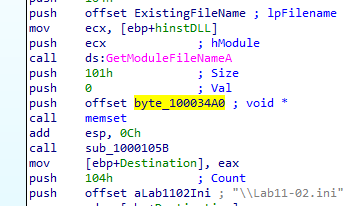
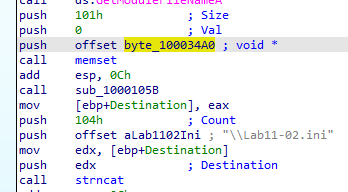
Added lab 11

Changed region(s): [[0.0287, 0.0, 1.0, 1.0], [0.6609, 0.9688, 0.6897, 1.0], [0.546, 0.3438, 0.5747, 0.375]]

diff --git a/searchindex.js b/searchindex.js
@@ -1,1 +1,1 @@
-Search.setIndex({"docnames": ["index", "lab1/lab1", "lab10/lab10", "lab11/lab11", "lab3/lab3", "lab5/lab5", "lab6/lab6", "lab7/lab7", "lab9/lab9"], "filenames": ["index.rst", "lab1\\lab1.rst", "lab10\\lab10.rst", "lab11\\lab11.rst", "lab3\\lab3.rst", "lab5\\lab5.rst", "lab6\\lab6.rst", "lab7\\lab7.rst", "lab9\\lab9.rst"], "titles": ["Welcome to abdelrahmn walkthrough!", "Practical Malware Analysis - Lab 1", "Practical Malware Analysis - Lab 10", "Practical Malware Analysis - Lab 11", "Practical Malware Analysis - Lab 3", "Practical Malware Analysis - Lab 5", "Practical Malware Analysis - Lab 6", "Practical Malware Analysis - Lab 7", "Practical Malware Analysis - Lab 9"], "terms": {"index": 0, "modul": [0, 1, 3, 5], "search": [0, 1, 3, 4, 5, 7, 8], "page": [0, 5], "practic": 0, "malwar": 0, "analysi": 0, "lab": 0, "1": 0, "thi": [1, 2, 3, 4, 5, 6, 7, 8], "us": [1, 2, 3, 4, 5, 6, 7, 8], "file": [1, 2, 3, 4, 5, 6, 7, 8], "lab01": 1, "01": [1, 2, 3, 4, 5, 6, 7, 8], "ex": [1, 2, 3, 4, 5, 6, 7, 8], "dll": [1, 3, 4, 5, 7, 8], "tool": [1, 4], "techniqu": [1, 3, 8], "describ": 1, "chapter": [1, 4, 6, 8], "gain": 1, "inform": [1, 4, 5], "about": [1, 3, 5], "answer": [1, 8], "question": [1, 5, 6, 8], "below": 1, "q1": [1, 2, 3, 4, 5, 6, 7, 8], "upload": 1, "http": [1, 5, 7, 8], "www": [1, 7, 8], "virustot": 1, "com": [1, 5, 6, 7, 8], "view": [1, 5, 8], "report": 1, "doe": [1, 2, 3, 5, 6, 7, 8], "either": 1, "match": [1, 5, 8], "ani": [1, 2, 3, 4, 5, 6, 7, 8], "exist": 1, "antiviru": 1, "signatur": [1, 4, 7, 8], "45": 1, "vendor": 1, "flag": [1, 5], "suspici": [1, 3], "55": 1, "imag": [], "1ex": [], "png": [], "2": [0, 5], "3": [0, 5], "4": [0, 5, 8], "q2": [1, 2, 3, 4, 5, 6, 7, 8], "when": [1, 2, 3, 4, 5, 6, 7, 8], "were": [1, 7], "compil": 1, "q3": [1, 2, 3, 4, 5, 6, 7, 8], "ar": [1, 2, 3, 4, 5, 6, 7, 8], "indic": [1, 4, 6, 7, 8], "i": [1, 2, 3, 4, 5, 6, 7, 8], "pack": [1, 4], "obfusc": [1, 8], "If": [1, 2, 4, 5, 6, 7], "so": [1, 2, 3, 4, 5, 6, 7, 8], "what": [1, 2, 3, 4, 5, 6, 7, 8], "q4": [1, 3, 4, 5, 6, 7, 8], "do": [1, 2, 3, 4, 5, 6, 7, 8], "import": [1, 3, 4, 5, 7, 8], "hint": [1, 5], "which": [1, 2, 3, 4, 5, 6, 7, 8], "thei": [1, 2, 4, 5], "q5": [1, 3, 4, 5, 6, 7, 8], "q6": [1, 3, 4, 5, 6, 7, 8], "network": [1, 4, 5, 6, 7, 8], "base": [1, 4, 5, 6, 7, 8], "could": [1, 4, 5, 7, 8], "find": [1, 3, 4, 5, 7, 8], "infect": [1, 3], "machin": [1, 2, 7], "q7": [1, 3, 5, 8], "would": [1, 4], "you": [1, 2, 3, 4, 5, 6, 7, 8], "guess": 1, "purpos": [1, 4, 6, 7, 8], "analyz": [1, 3, 4, 5, 6, 7, 8], "02": [1, 2, 3, 4, 6, 7, 8], "definit": 1, "unpack": 1, "possibl": 1, "program": [1, 2, 4, 5, 6, 7, 8], "": [1, 3, 4, 5, 6, 7, 8], "function": [1, 2, 3, 5, 6, 7, 8], "tell": 1, "host": [1, 2, 4, 6, 7, 8], "identifi": [1, 4, 5, 8], "03": [1, 2, 3, 4, 6, 7, 8], "04": [1, 4, 6], "wa": [1, 2, 3, 5, 8], "ha": [1, 5, 6, 8], "one": [1, 3, 5, 6, 7, 8], "resourc": [1, 3], "section": 1, "hacker": 1, "examin": [1, 2, 3], "extract": [1, 3], "can": [1, 2, 3, 4, 5, 6, 7, 8], "learn": [1, 5], "from": [1, 2, 3, 4, 5, 6, 8], "sun": 1, "dec": 1, "19": 1, "18": 1, "16": 1, "2010": 1, "38": 1, "peid": 1, "moreov": 1, "both": [1, 2, 3, 7, 8], "decent": 1, "number": [1, 5], "psstudio": 1, "check": [1, 2, 3, 5, 6, 7, 8], "show": [1, 8], "creat": [1, 2, 3, 4, 5, 6, 7, 8], "ws2_32": 1, "socket": [1, 5], "mean": [1, 2, 3], "we": [1, 2, 3, 4, 5, 6, 7, 8], "need": [1, 2, 3, 5, 7, 8], "investig": 1, "traffic": [1, 4, 5], "also": [1, 3, 5], "createprocess": 1, "kernel32": [1, 4, 7, 8], "new": [1, 6], "process": [1, 3, 4, 5, 7, 8], "spawn": 1, "ye": [1, 6], "findfirstfil": 1, "findnextfil": 1, "u": [1, 5], "somefil": 1, "modifi": 1, "run": [1, 2, 3, 4, 5, 6, 7, 8], "string": [1, 4, 5, 6, 7, 8], "give": [1, 5], "some": [1, 3, 4, 5, 7, 8], "useful": 1, "like": [1, 3, 4, 5, 6, 7, 8], "ip": [1, 7], "127": [1, 7], "26": [1, 7], "152": [1, 7], "13": [1, 5, 7], "watch": [1, 5], "come": 1, "kerne132": [1, 7], "l": [1, 8], "should": [1, 5, 6, 7], "notic": [1, 3, 4, 5, 7, 8], "sleep": [1, 5, 6], "exec": 1, "mai": [1, 5, 7, 8], "its": [1, 3, 5, 7, 8], "an": [1, 2, 3, 5, 8], "agent": [1, 6, 7], "connect": [1, 4, 6, 7], "c": [1, 2, 5, 6, 7, 8], "server": 1, "trojan": 1, "against": 1, "upx": 1, "bash": [], "d": [1, 6], "code": [3, 5, 6, 8], "block": [], "createservic": 1, "startservic": [1, 7], "start": [1, 2, 3, 4, 5, 6, 7, 8], "servic": [1, 2, 7, 8], "internetopenurl": 1, "internetopen": 1, "open": [1, 2, 3, 5, 7, 8], "specifi": [1, 3, 5, 8], "complet": [1, 3], "ftp": 1, "url": [1, 6, 7], "getmodulefilenam": 1, "obtain": [1, 7], "fulli": 1, "qualifi": 1, "name": [1, 2, 3, 4, 5, 7, 8], "given": 1, "handl": [1, 3, 7], "see": [1, 2, 3, 5, 6, 7, 8], "internet": [1, 6, 7], "explor": [1, 4, 6, 7], "malwareanalysisbook": [1, 7], "8": [1, 7], "0": [1, 5], "64": 1, "av": 1, "fsg": 1, "dulek": [], "look": [1, 3, 5, 8], "manual": 1, "onli": [1, 4, 5, 6, 7], "loadlibrari": 1, "getprocaddress": [1, 3], "t": [1, 3, 4, 5, 7, 8], "63": 1, "No": 1, "malform": 1, "virtuals": 1, "close": 1, "rawsiz": 1, "sat": 1, "aug": 1, "31": [1, 8], "00": 1, "59": 1, "2019": 1, "It": [1, 3, 4, 5, 6, 7, 8], "lookup": 1, "privileg": 1, "adjust": 1, "token": 1, "control": [1, 7], "most": [1, 3, 4, 5, 6], "wupdmgrd": 1, "download": 1, "thepracticalmalwareanalysi": 1, "updat": 1, "There": [1, 5, 6], "binari": [1, 3, 8], "rsrc": [1, 3], "urldownloadtofil": 1, "first": [3, 4, 5, 6, 7, 8], "my": 4, "setup": [4, 7], "two": [4, 6, 7], "vm": [4, 5], "win7": 4, "linux": 4, "togeth": 4, "vmnet": [], "inetsim": 4, "On": 4, "procmon": [2, 4, 8], "set": [2, 3, 4, 5, 6, 7, 8], "filter": [2, 4], "execut": [2, 3, 4, 5, 6, 7, 8], "clear": [3, 4], "out": [3, 4, 5, 6, 8], "all": [3, 4, 5, 7, 8], "event": 4, "just": [3, 4], "befor": [4, 5, 6], "gather": [4, 5], "snapshot": [3, 4, 5, 7], "registri": [2, 3, 4, 6], "regshot": 4, "up": [4, 5], "log": [3, 4], "wireshark": [3, 4], "apatedn": 4, "point": 4, "found": [2, 3, 4, 5, 6, 7, 8], "lab03": 4, "basic": [3, 4, 8], "dynam": [3, 4, 7, 8], "how": [2, 3, 4, 5, 6, 7, 8], "get": [3, 4, 5, 7, 8], "instal": [3, 4, 5, 7, 8], "itself": [4, 8], "after": [2, 3, 4, 5, 6, 7, 8], "under": [3, 4, 7, 8], "order": [2, 3, 4, 7], "glean": 4, "while": [4, 8], "monitor": 4, "safe": 4, "environ": [3, 4], "live": 4, "memori": [2, 3, 4, 7, 8], "modif": 4, "further": [4, 5], "9": [0, 4, 5], "happen": [3, 4, 5, 8], "caus": [4, 7], "roadblock": 4, "other": [4, 5, 6, 7], "wai": [3, 4, 7], "pebear": 4, "exitprocess": 4, "dl": 4, "command": [4, 6, 7, 8], "mani": [3, 4, 5, 8], "domain": [4, 8], "intern": 4, "driver": [2, 4], "By": [4, 5, 7, 8], "utilt": 4, "rundll32": [3, 4], "sc": [4, 7], "parent": 4, "pid": 4, "delet": [4, 6, 8], "processcr": 4, "call": [2, 3, 4, 5, 6, 7, 8], "cmd": [4, 5, 8], "requir": [4, 8], "certain": [4, 7], "condit": [4, 6, 8], "line": [4, 5, 8], "argument": [2, 4, 5, 6, 8], "don": 4, "know": [2, 4, 7], "stage": 4, "util": [5, 7, 8], "ida": [2, 3, 5, 8], "lab05": 5, "pro": [5, 8], "The": [2, 5, 6, 8], "goal": [5, 6], "hand": 5, "experi": 5, "ve": [5, 6, 7], "alreadi": [2, 5], "work": [2, 3, 5, 6], "choos": 5, "ignor": 5, "focu": [5, 7], "revers": [5, 7], "engin": 5, "5": [0, 3, 6], "address": [3, 5, 6, 7, 8], "dllmain": [5, 7], "window": [2, 3, 5, 6, 7], "brows": 5, "gethostbynam": 5, "where": [2, 3, 5, 8], "locat": [3, 5, 6, 8], "focus": 5, "0x10001757": 5, "figur": 5, "dn": 5, "request": [5, 8], "made": [5, 6], "local": [5, 7], "variabl": 5, "recogn": [5, 6], "subroutin": [5, 6, 7, 8], "0x10001656": 5, "6": [0, 5, 8], "paramet": [3, 5, 6, 8], "7": [0, 3], "disassembli": 5, "area": 5, "refer": [3, 5], "In": [5, 6, 7, 8], "same": [2, 3, 5, 6, 7, 8], "0x100101c8": 5, "dword_1008e5c4": 5, "global": 5, "help": [3, 5, 6], "decid": 5, "path": [5, 8], "take": [3, 5, 6, 8], "cross": [3, 5], "10": 0, "A": [5, 6, 7], "few": 5, "hundr": 5, "0x1000ff58": 5, "seri": 5, "comparison": 5, "memcmp": [3, 5], "compar": [3, 5, 6, 8], "robotwork": 5, "success": [2, 5, 6, 7], "return": [2, 3, 5, 6, 8], "11": 0, "export": [3, 5], "pslist": 5, "12": [], "graph": 5, "mode": 5, "sub_10004e79": 5, "api": 5, "enter": 5, "alon": 5, "renam": [5, 8], "directli": 5, "depth": 5, "14": [], "At": [5, 7], "0x10001358": 5, "contain": [3, 5, 6, 7], "millisecond": 5, "backward": 5, "through": [5, 6, 7], "long": [5, 6], "15": [], "0x10001701": 5, "three": [3, 5, 8], "q8": [3, 5, 8], "q9": [3, 5], "q10": 5, "q11": 5, "q12": 5, "q13": 5, "q14": 5, "q15": 5, "load": [3, 5, 8], "direct": [2, 5], "1000d02e": 5, "referenc": 5, "100163cc": 5, "xref": 5, "press": 5, "x": 5, "idata": 5, "time": [3, 5, 6, 7], "uniqu": 5, "method": [5, 6, 7], "g": 5, "jump": [3, 5, 6], "scroll": 5, "push": [5, 6], "eax": [2, 3, 5, 6, 8], "data": [3, 5, 7, 8], "ad": [5, 6, 7], "0x0d": 5, "decim": 5, "go": [2, 3, 5, 6, 7, 8], "click": 5, "twice": 5, "undefin": 5, "place": [2, 3, 5], "redefin": 5, "offset": [3, 5, 7], "pic": 5, "praticalmalwareanalysi": 5, "24": 5, "pass": [3, 5, 6, 7, 8], "posit": 5, "valu": [3, 5, 8], "respect": 5, "ebp": 5, "neg": 5, "lpthreadparamet": 5, "100101d0": 5, "hi": 5, "master": 5, "remot": [5, 7], "shell": 5, "sound": 5, "session": 5, "1001009d": 5, "doubl": 5, "mov": [5, 8], "begin": [5, 7], "initi": [5, 8], "stack": [5, 8], "alloc": [3, 5], "space": [2, 3, 5], "Then": [2, 5, 6, 7], "structur": [3, 5], "versioninform": 5, "pointer": 5, "getversionexa": 5, "zero": [2, 3, 5], "dwplatformid": 5, "equal": [5, 8], "true": 5, "fals": 5, "al": [5, 6], "regist": [5, 7, 8], "result": [2, 5], "overal": [5, 6], "o": [5, 6], "win32nt": 5, "act": 5, "text": 5, "test": [3, 5, 8], "jnz": [5, 6], "next": [5, 6], "instruct": [5, 6, 8], "flow": [3, 5, 8], "sub_100052a2": 5, "routin": [5, 6, 8], "type": [2, 3, 5, 6], "buffer": 5, "send": [3, 5, 7], "over": [5, 8], "try": [5, 6], "registeri": 5, "softwar": [5, 6, 7], "microsoft": [5, 6], "currentvers": [5, 6], "regopenkeyexa": 5, "jz": [5, 6], "loc_10005309": 5, "10005322": 5, "queri": [5, 8], "worktim": 5, "sent": [3, 5], "vaiabl": 5, "dword_1008e5bc": 5, "sub_100036c3": 5, "cmp": [5, 6], "majorvers": 5, "jb": 5, "short": 5, "loc_100036fa": 5, "version": [5, 7], "less": 5, "than": [5, 7], "cf": 5, "goe": 5, "piec": [5, 6, 8], "str": 5, "isnot": 5, "null": 5, "empti": 5, "strlen": 5, "zf": 5, "taken": [5, 7], "non": [2, 5], "1000664c": 5, "10006518": 5, "createtoolhelp32snapshot": 5, "well": [3, 5], "heap": [3, 5], "thread": [3, 5, 7], "processentry32": [3, 5], "put": [2, 3, 5, 6, 8], "loop": [5, 6, 7, 8], "pe": 5, "szexefil": 5, "those": [5, 6], "branch": [5, 8], "seem": [3, 5], "without": [5, 7], "langaug": 5, "getsystemlanguageid": 5, "sprintf": 5, "sub_100038e": 5, "send_languageid": 5, "For": [5, 7], "win": [3, 5], "lot": 5, "10019020": 5, "cti": 5, "30": 5, "move": [5, 8], "add": 5, "convert": [5, 8], "int": 5, "multipli": 5, "1000": 5, "second": [3, 5, 6, 8], "protocol": 5, "af": 5, "q16": 5, "msdn": 5, "symbol": 5, "constant": 5, "make": [2, 3, 5, 7, 8], "more": [5, 6, 7], "meaning": 5, "appli": 5, "chang": [2, 3, 5, 7], "q17": 5, "usag": 5, "opcod": [3, 5], "0xed": 5, "magic": 5, "vmxh": 5, "perform": [5, 6], "vmware": 5, "detect": [5, 7], "evid": 5, "q18": 5, "your": [3, 5, 7], "cursor": 5, "0x1001d988": 5, "q19": 5, "have": [2, 5], "python": 5, "plug": 5, "includ": [2, 5, 8], "commerci": 5, "py": 5, "script": 5, "provid": [5, 8], "book": 5, "sure": [3, 5], "q20": 5, "With": 5, "turn": 5, "singl": [5, 6], "ascii": [5, 6, 8], "q21": 5, "editor": 5, "_target": 5, "en": 5, "win32": 5, "winsock2": 5, "nf": 5, "right": 5, "alt": 5, "b": [5, 6], "byte": [3, 5, 6], "occur": 5, "sub_10006196": 5, "hex": [5, 8], "cancel": 5, "charact": 5, "outdat": 5, "xor": [5, 8], "0x55": 5, "default": [5, 6], "format": [5, 6], "current": [5, 6], "select": 5, "screen": 5, "0x50": 5, "understand": 6, "construct": 6, "each": 6, "guid": 6, "discov": [3, 6], "build": 6, "previou": [6, 7], "thu": 6, "complic": 6, "four": 6, "onc": [2, 6, 7], "finish": [6, 7], "abl": 6, "easili": 6, "individu": 6, "encount": 6, "them": [3, 6], "lab06": 6, "major": 6, "main": [3, 6, 7, 8], "print": [6, 8], "state": 6, "output": [6, 8], "0x40105f": 6, "oper": 6, "0x40117f": 6, "ll": [6, 7], "differ": [6, 8], "between": [3, 6], "been": 6, "pars": 6, "html": [6, 7], "assum": [3, 6], "abov": [], "stream": 6, "fail": [2, 6], "printf": 6, "here": [2, 3, 6, 7, 8], "tri": 6, "openurl": 6, "practicalmalwareanalysi": [6, 8], "v7": 6, "depend": 6, "continu": [3, 6, 7], "internetreadfil": 6, "read": 6, "200": 6, "readfil": 6, "bye": 6, "0x3c": 6, "receiv": 6, "combin": [6, 7], "bunch": 6, "switch": 6, "case": 6, "user": [2, 3, 6, 7], "As": [6, 8], "summari": 6, "pma": 6, "cc": [6, 8], "htm": 6, "401130": 6, "lpexistingfil": 6, "char": 6, "argv": [6, 8], "arrai": 6, "lower": 6, "401040": [6, 7], "input": [3, 6], "directori": [2, 3, 6, 7], "temp": 6, "copi": [3, 6, 7], "kei": [6, 8], "persist": [3, 6, 7], "startup": [6, 7], "e": [3, 6, 8], "100": 6, "error": 6, "multipl": [3, 6], "thing": 6, "retriev": 6, "site": [6, 7], "1440": 6, "counter": 6, "var_c": 6, "parser": 6, "throughtout": 6, "dai": 6, "interv": 6, "lab07": 7, "ensur": 7, "achiev": [3, 7], "comput": [2, 7], "restart": 7, "why": [3, 7], "mutex": 7, "good": 7, "malici": [7, 8], "prior": 7, "note": 7, "becaus": [2, 7], "might": 7, "victim": [2, 7], "visibl": 7, "loopback": 7, "real": 7, "localhost": 7, "protect": [3, 7], "warn": 7, "consider": 7, "damag": 7, "difficult": 7, "remov": 7, "virtual": 7, "bit": 7, "challeng": 7, "ones": 7, "static": [3, 7, 8], "big": 7, "pictur": 7, "avoid": [7, 8], "bog": 7, "down": 7, "detail": 7, "Into": 7, "startservicectrldispatchera": 7, "manag": [7, 8], "instanc": 7, "startyp": 7, "autostart": 7, "pc": 7, "To": 7, "hardcod": 7, "must": [2, 3, 7], "consist": 7, "aren": 7, "commun": 7, "qc": 7, "malservic": 7, "hgl345": 7, "waitforsingleobject": 7, "waitabl": 7, "timer": 7, "wait": 7, "2100": 7, "834h": 7, "4010de": 7, "reach": [7, 8], "year": 7, "20": 7, "zombi": 7, "botnet": 7, "infinit": 7, "never": 7, "object": 7, "oleiniti": 7, "cocreateinst": 7, "our": [7, 8], "hkey_local_machin": 7, "class": 7, "clsid": 7, "2df01": 7, "mayb": 7, "adwar": 7, "now": [3, 7, 8], "eplor": 7, "uninti": 7, "normal": [3, 7], "ioc": 7, "system32": [2, 7, 8], "map": 7, "reflect": 7, "disk": [3, 7], "And": 7, "132": 7, "l32": 7, "4011e0": 7, "iter": 7, "string2": 7, "replac": [3, 7], "dword_403010": 7, "qmemcpi": 7, "ping": 7, "pong": 7, "reciev": 7, "overwrit": [3, 7], "instead": 7, "sadfhuhf": 7, "inject": 7, "logic": [2, 7], "Or": 7, "easier": [7, 8], "lab09": 8, "ollydbg": 8, "follow": 8, "option": 8, "password": 8, "perman": 8, "patch": 8, "doesn": [3, 8], "special": 8, "action": 8, "via": 8, "sampl": 8, "payload": 8, "0x00401133": 8, "being": [3, 8], "0x00401089": 8, "encod": 8, "signific": [3, 8], "createprocessa": 8, "0x0040106e": 8, "dll1": 8, "dll2": 8, "dll3": 8, "built": 8, "therefor": 8, "versu": 8, "appear": 8, "comfort": 8, "correct": 8, "within": 8, "debug": [3, 8], "assign": 8, "writefil": 8, "filenam": [3, 8], "write": [3, 8], "job": 8, "netschedulejobadd": 8, "mysteri": 8, "sub_402410": 8, "del": 8, "respons": 8, "last": 8, "argc": 8, "abcd": 8, "passkei": 8, "n": 8, "r": 8, "involv": 8, "around": 8, "re": 8, "opposit": 8, "suppli": 8, "xp": 8, "subkei": 8, "arugu": 8, "qw": 8, "402af0": 8, "step": 8, "till": 8, "sinc": 8, "skip": 8, "selfdelet": 8, "arriv": 8, "prepar": 8, "servicemanag": 8, "dir": 8, "syswow": 8, "systemroot": 8, "windowssystem32": [2, 8], "hklmsoftwaremicrosoft": 8, "noth": 8, "foreground": 8, "someth": 8, "ocl": 8, "termin": 8, "bp": 8, "401133": 8, "breakpoint": [2, 8], "gonna": 8, "decod": 8, "46": 8, "letter": 8, "dump": 8, "anywher": 2, "properli": [2, 3], "origin": 2, "lab10": 2, "sy": 2, "controlservic": 2, "windbg": 2, "kernel": 2, "compon": 2, "stop": 2, "regsetvalu": 2, "0x01": 2, "service_kernel_driv": 2, "0x00000001": 2, "couldnt": 2, "dwcontrol": 2, "service_control_stop": 2, "still": 2, "hit": 2, "break": 2, "lab11": 3, "drop": 3, "rep": 3, "stosd": 3, "ecx": 3, "43h": 3, "tgad": 3, "pestudio": 3, "loadresourc": 3, "40100": 3, "gina": 3, "intercept": 3, "regset": 3, "ginadl": 3, "winlogon": 3, "steal": 3, "credenti": 3, "exeinfo": 3, "floss": 3, "oringin": 3, "stolen": 3, "msutil": 3, "ini": 3, "attempt": 3, "permiss": 3, "resid": 3, "rootkit": 3, "emploi": 3, "hook": 3, "attack": 3, "captur": 3, "activ": 3, "dure": 3, "interest": 3, "lead": 3, "system": 3, "store": 3, "collect": 3, "similar": 3, "caller": 3, "appleinit": 3, "stood": 3, "modulefilenam": 3, "processid": 3, "plu": 3, "snapshottool": 3, "100012fe": 3, "wsock32": 3, "got": 3, "10001203": 3, "virtualprotect": 3, "inlin": 3, "insid": 3, "calcul": 3, "distanc": 3, "arg_4": 3, "sendaddr": 3, "0xff": 3, "lpaddress": 3, "rel": 3, "rest": 3, "0xe9": 3, "jmp": 3, "v6": 3, "trace": 3, "back": 3, "1000113d": 3, "substr": 3, "rept": 3, "els": 3, "recepi": 3, "email": 3, "100034a0": 3}, "objects": {}, "objtypes": {}, "objnames": {}, "titleterms": {"welcom": 0, "abdelrahmn": 0, "walkthrough": 0, "": [], "document": [], "indic": 0, "tabl": 0, "practic": [1, 2, 3, 4, 5, 6, 7, 8], "malwar": [1, 2, 3, 4, 5, 6, 7, 8], "analysi": [1, 2, 3, 4, 5, 6, 7, 8], "lab": [1, 2, 3, 4, 5, 6, 7, 8], "1": [1, 2, 3, 4, 5, 6, 7, 8], "2": [1, 2, 3, 4, 6, 7, 8], "3": [1, 2, 3, 4, 6, 7, 8], "4": [1, 4, 6], "5": 5, "6": 6, "7": 7, "9": 8, "10": 2, "11": 3}, "envversion": {"sphinx.domains.c": 2, "sphinx.domains.changeset": 1, "sphinx.domains.citation": 1, "sphinx.domains.cpp": 8, "sphinx.domains.index": 1, "sphinx.domains.javascript": 2, "sphinx.domains.math": 2, "sphinx.domains.python": 3, "sphinx.domains.rst": 2, "sphinx.domains.std": 2, "sphinx": 57}, "alltitles": {"Practical Malware Analysis - Lab 1": [[1, "practical-malware-analysis-lab-1"]], "Lab 1-1": [[1, "lab-1-1"]], "Lab 1-2": [[1, "lab-1-2"]], "Lab 1-3": [[1, "lab-1-3"]], "Lab 1-4": [[1, "lab-1-4"]], "Practical Malware Analysis - Lab 3": [[4, "practical-malware-analysis-lab-3"]], "Lab 3-1": [[4, "lab-3-1"]], "Lab 3-2": [[4, "lab-3-2"]], "Lab 3-3": [[4, "lab-3-3"]], "Lab 3-4": [[4, "lab-3-4"]], "Practical Malware Analysis - Lab 5": [[5, "practical-malware-analysis-lab-5"]], "Lab 5-1": [[5, "lab-5-1"]], "Practical Malware Analysis - Lab 6": [[6, "practical-malware-analysis-lab-6"]], "Lab 6-1": [[6, "lab-6-1"]], "Lab 6-2": [[6, "lab-6-2"]], "Lab 6-3": [[6, "lab-6-3"]], "Lab 6-4": [[6, "lab-6-4"]], "Practical Malware Analysis - Lab 7": [[7, "practical-malware-analysis-lab-7"]], "Lab 7-1": [[7, "lab-7-1"]], "Lab 7-2": [[7, "lab-7-2"]], "Lab 7-3": [[7, "lab-7-3"]], "Practical Malware Analysis - Lab 9": [[8, "practical-malware-analysis-lab-9"]], "Lab 9-1": [[8, "lab-9-1"]], "Lab 9-2": [[8, "lab-9-2"]], "Lab 9-3": [[8, "lab-9-3"]], "Welcome to abdelrahmn walkthrough!": [[0, "welcome-to-abdelrahmn-walkthrough"]], "Indices and tables": [[0, "indices-and-tables"]], "Practical Malware Analysis - Lab 10": [[2, "practical-malware-analysis-lab-10"]], "Lab 10-1": [[2, "lab-10-1"]], "Lab 10-2": [[2, "lab-10-2"]], "Lab 10-3": [[2, "lab-10-3"]], "Practical Malware Analysis - Lab 11": [[3, "practical-malware-analysis-lab-11"]], "Lab 11-1": [[3, "lab-11-1"]], "Lab 11-2": [[3, "lab-11-2"]], "Lab 11-3": [[3, "lab-11-3"]]}, "indexentries": {}})
+Search.setIndex({"docnames": ["index", "lab1/lab1", "lab10/lab10", "lab11/lab11", "lab3/lab3", "lab5/lab5", "lab6/lab6", "lab7/lab7", "lab9/lab9"], "filenames": ["index.rst", "lab1\\lab1.rst", "lab10\\lab10.rst", "lab11\\lab11.rst", "lab3\\lab3.rst", "lab5\\lab5.rst", "lab6\\lab6.rst", "lab7\\lab7.rst", "lab9\\lab9.rst"], "titles": ["Welcome to abdelrahmn walkthrough!", "Practical Malware Analysis - Lab 1", "Practical Malware Analysis - Lab 10", "Practical Malware Analysis - Lab 11", "Practical Malware Analysis - Lab 3", "Practical Malware Analysis - Lab 5", "Practical Malware Analysis - Lab 6", "Practical Malware Analysis - Lab 7", "Practical Malware Analysis - Lab 9"], "terms": {"index": 0, "modul": [0, 1, 3, 5], "search": [0, 1, 3, 4, 5, 7, 8], "page": [0, 5], "practic": 0, "malwar": 0, "analysi": 0, "lab": 0, "1": 0, "thi": [1, 2, 3, 4, 5, 6, 7, 8], "us": [1, 2, 3, 4, 5, 6, 7, 8], "file": [1, 2, 3, 4, 5, 6, 7, 8], "lab01": 1, "01": [1, 2, 3, 4, 5, 6, 7, 8], "ex": [1, 2, 3, 4, 5, 6, 7, 8], "dll": [1, 3, 4, 5, 7, 8], "tool": [1, 4], "techniqu": [1, 3, 8], "describ": 1, "chapter": [1, 4, 6, 8], "gain": 1, "inform": [1, 4, 5], "about": [1, 3, 5], "answer": [1, 3, 8], "question": [1, 5, 6, 8], "below": 1, "q1": [1, 2, 3, 4, 5, 6, 7, 8], "upload": 1, "http": [1, 3, 5, 7, 8], "www": [1, 3, 7, 8], "virustot": 1, "com": [1, 5, 6, 7, 8], "view": [1, 5, 8], "report": 1, "doe": [1, 2, 3, 5, 6, 7, 8], "either": 1, "match": [1, 5, 8], "ani": [1, 2, 3, 4, 5, 6, 7, 8], "exist": 1, "antiviru": 1, "signatur": [1, 4, 7, 8], "45": 1, "vendor": 1, "flag": [1, 5], "suspici": [1, 3], "55": 1, "imag": [], "1ex": [], "png": [], "2": [0, 5], "3": [0, 5], "4": [0, 5, 8], "q2": [1, 2, 3, 4, 5, 6, 7, 8], "when": [1, 2, 3, 4, 5, 6, 7, 8], "were": [1, 7], "compil": 1, "q3": [1, 2, 3, 4, 5, 6, 7, 8], "ar": [1, 2, 3, 4, 5, 6, 7, 8], "indic": [1, 4, 6, 7, 8], "i": [1, 2, 3, 4, 5, 6, 7, 8], "pack": [1, 4], "obfusc": [1, 8], "If": [1, 2, 4, 5, 6, 7], "so": [1, 2, 3, 4, 5, 6, 7, 8], "what": [1, 2, 3, 4, 5, 6, 7, 8], "q4": [1, 3, 4, 5, 6, 7, 8], "do": [1, 2, 3, 4, 5, 6, 7, 8], "import": [1, 3, 4, 5, 7, 8], "hint": [1, 5], "which": [1, 2, 3, 4, 5, 6, 7, 8], "thei": [1, 2, 4, 5], "q5": [1, 3, 4, 5, 6, 7, 8], "q6": [1, 3, 4, 5, 6, 7, 8], "network": [1, 4, 5, 6, 7, 8], "base": [1, 4, 5, 6, 7, 8], "could": [1, 4, 5, 7, 8], "find": [1, 3, 4, 5, 7, 8], "infect": [1, 3], "machin": [1, 2, 7], "q7": [1, 3, 5, 8], "would": [1, 4], "you": [1, 2, 3, 4, 5, 6, 7, 8], "guess": 1, "purpos": [1, 4, 6, 7, 8], "analyz": [1, 3, 4, 5, 6, 7, 8], "02": [1, 2, 3, 4, 6, 7, 8], "definit": 1, "unpack": 1, "possibl": 1, "program": [1, 2, 4, 5, 6, 7, 8], "": [1, 3, 4, 5, 6, 7, 8], "function": [1, 2, 3, 5, 6, 7, 8], "tell": 1, "host": [1, 2, 4, 6, 7, 8], "identifi": [1, 4, 5, 8], "03": [1, 2, 3, 4, 6, 7, 8], "04": [1, 4, 6], "wa": [1, 2, 3, 5, 8], "ha": [1, 5, 6, 8], "one": [1, 3, 5, 6, 7, 8], "resourc": [1, 3], "section": 1, "hacker": 1, "examin": [1, 2, 3], "extract": [1, 3], "can": [1, 2, 3, 4, 5, 6, 7, 8], "learn": [1, 5], "from": [1, 2, 3, 4, 5, 6, 8], "sun": 1, "dec": 1, "19": 1, "18": 1, "16": 1, "2010": 1, "38": 1, "peid": 1, "moreov": 1, "both": [1, 2, 3, 7, 8], "decent": 1, "number": [1, 5], "psstudio": 1, "check": [1, 2, 3, 5, 6, 7, 8], "show": [1, 8], "creat": [1, 2, 3, 4, 5, 6, 7, 8], "ws2_32": 1, "socket": [1, 5], "mean": [1, 2, 3], "we": [1, 2, 3, 4, 5, 6, 7, 8], "need": [1, 2, 3, 5, 7, 8], "investig": 1, "traffic": [1, 4, 5], "also": [1, 3, 5], "createprocess": 1, "kernel32": [1, 4, 7, 8], "new": [1, 6], "process": [1, 3, 4, 5, 7, 8], "spawn": 1, "ye": [1, 6], "findfirstfil": 1, "findnextfil": 1, "u": [1, 5], "somefil": 1, "modifi": 1, "run": [1, 2, 3, 4, 5, 6, 7, 8], "string": [1, 3, 4, 5, 6, 7, 8], "give": [1, 5], "some": [1, 3, 4, 5, 7, 8], "useful": 1, "like": [1, 3, 4, 5, 6, 7, 8], "ip": [1, 7], "127": [1, 7], "26": [1, 7], "152": [1, 7], "13": [1, 5, 7], "watch": [1, 5], "come": 1, "kerne132": [1, 7], "l": [1, 8], "should": [1, 5, 6, 7], "notic": [1, 3, 4, 5, 7, 8], "sleep": [1, 5, 6], "exec": 1, "mai": [1, 3, 5, 7, 8], "its": [1, 3, 5, 7, 8], "an": [1, 2, 3, 5, 8], "agent": [1, 6, 7], "connect": [1, 4, 6, 7], "c": [1, 2, 5, 6, 7, 8], "server": 1, "trojan": 1, "against": 1, "upx": 1, "bash": [], "d": [1, 6], "code": [3, 5, 6, 8], "block": [], "createservic": 1, "startservic": [1, 7], "start": [1, 2, 3, 4, 5, 6, 7, 8], "servic": [1, 2, 7, 8], "internetopenurl": 1, "internetopen": 1, "open": [1, 2, 3, 5, 7, 8], "specifi": [1, 3, 5, 8], "complet": [1, 3], "ftp": 1, "url": [1, 6, 7], "getmodulefilenam": 1, "obtain": [1, 7], "fulli": 1, "qualifi": 1, "name": [1, 2, 3, 4, 5, 7, 8], "given": 1, "handl": [1, 3, 7], "see": [1, 2, 3, 5, 6, 7, 8], "internet": [1, 6, 7], "explor": [1, 4, 6, 7], "malwareanalysisbook": [1, 7], "8": [1, 7], "0": [1, 5], "64": 1, "av": 1, "fsg": 1, "dulek": [], "look": [1, 3, 5, 8], "manual": 1, "onli": [1, 4, 5, 6, 7], "loadlibrari": 1, "getprocaddress": [1, 3], "t": [1, 3, 4, 5, 7, 8], "63": 1, "No": 1, "malform": 1, "virtuals": 1, "close": 1, "rawsiz": 1, "sat": 1, "aug": 1, "31": [1, 8], "00": 1, "59": 1, "2019": 1, "It": [1, 3, 4, 5, 6, 7, 8], "lookup": 1, "privileg": 1, "adjust": 1, "token": 1, "control": [1, 7], "most": [1, 3, 4, 5, 6], "wupdmgrd": 1, "download": 1, "thepracticalmalwareanalysi": 1, "updat": 1, "There": [1, 5, 6], "binari": [1, 3, 8], "rsrc": [1, 3], "urldownloadtofil": 1, "first": [3, 4, 5, 6, 7, 8], "my": 4, "setup": [4, 7], "two": [4, 6, 7], "vm": [4, 5], "win7": 4, "linux": 4, "togeth": 4, "vmnet": [], "inetsim": 4, "On": 4, "procmon": [2, 4, 8], "set": [2, 3, 4, 5, 6, 7, 8], "filter": [2, 4], "execut": [2, 3, 4, 5, 6, 7, 8], "clear": [3, 4], "out": [3, 4, 5, 6, 8], "all": [3, 4, 5, 7, 8], "event": 4, "just": [3, 4], "befor": [4, 5, 6], "gather": [4, 5], "snapshot": [3, 4, 5, 7], "registri": [2, 3, 4, 6], "regshot": 4, "up": [4, 5], "log": [3, 4], "wireshark": [3, 4], "apatedn": 4, "point": 4, "found": [2, 3, 4, 5, 6, 7, 8], "lab03": 4, "basic": [3, 4, 8], "dynam": [3, 4, 7, 8], "how": [2, 3, 4, 5, 6, 7, 8], "get": [3, 4, 5, 7, 8], "instal": [3, 4, 5, 7, 8], "itself": [4, 8], "after": [2, 3, 4, 5, 6, 7, 8], "under": [3, 4, 7, 8], "order": [2, 3, 4, 7], "glean": 4, "while": [4, 8], "monitor": 4, "safe": 4, "environ": [3, 4], "live": 4, "memori": [2, 3, 4, 7, 8], "modif": 4, "further": [4, 5], "9": [0, 4, 5], "happen": [3, 4, 5, 8], "caus": [4, 7], "roadblock": 4, "other": [4, 5, 6, 7], "wai": [3, 4, 7], "pebear": 4, "exitprocess": 4, "dl": 4, "command": [4, 6, 7, 8], "mani": [3, 4, 5, 8], "domain": [4, 8], "intern": 4, "driver": [2, 4], "By": [4, 5, 7, 8], "utilt": 4, "rundll32": [3, 4], "sc": [4, 7], "parent": 4, "pid": 4, "delet": [4, 6, 8], "processcr": 4, "call": [2, 3, 4, 5, 6, 7, 8], "cmd": [4, 5, 8], "requir": [4, 8], "certain": [4, 7], "condit": [4, 6, 8], "line": [4, 5, 8], "argument": [2, 4, 5, 6, 8], "don": 4, "know": [2, 4, 7], "stage": 4, "util": [5, 7, 8], "ida": [2, 3, 5, 8], "lab05": 5, "pro": [5, 8], "The": [2, 5, 6, 8], "goal": [5, 6], "hand": 5, "experi": 5, "ve": [5, 6, 7], "alreadi": [2, 5], "work": [2, 3, 5, 6], "choos": 5, "ignor": 5, "focu": [5, 7], "revers": [5, 7], "engin": 5, "5": [0, 3, 6], "address": [3, 5, 6, 7, 8], "dllmain": [3, 5, 7], "window": [2, 3, 5, 6, 7], "brows": 5, "gethostbynam": 5, "where": [2, 3, 5, 8], "locat": [3, 5, 6, 8], "focus": 5, "0x10001757": 5, "figur": 5, "dn": 5, "request": [5, 8], "made": [5, 6], "local": [5, 7], "variabl": 5, "recogn": [5, 6], "subroutin": [5, 6, 7, 8], "0x10001656": 5, "6": [0, 5, 8], "paramet": [3, 5, 6, 8], "7": [0, 3], "disassembli": 5, "area": 5, "refer": [3, 5], "In": [5, 6, 7, 8], "same": [2, 3, 5, 6, 7, 8], "0x100101c8": 5, "dword_1008e5c4": 5, "global": 5, "help": [3, 5, 6], "decid": 5, "path": [5, 8], "take": [3, 5, 6, 8], "cross": [3, 5], "10": 0, "A": [5, 6, 7], "few": 5, "hundr": 5, "0x1000ff58": 5, "seri": 5, "comparison": 5, "memcmp": [3, 5], "compar": [3, 5, 6, 8], "robotwork": 5, "success": [2, 5, 6, 7], "return": [2, 3, 5, 6, 8], "11": 0, "export": [3, 5], "pslist": 5, "12": [], "graph": 5, "mode": 5, "sub_10004e79": 5, "api": 5, "enter": 5, "alon": 5, "renam": [5, 8], "directli": 5, "depth": 5, "14": [], "At": [5, 7], "0x10001358": 5, "contain": [3, 5, 6, 7], "millisecond": 5, "backward": 5, "through": [5, 6, 7], "long": [5, 6], "15": [], "0x10001701": 5, "three": [3, 5, 8], "q8": [3, 5, 8], "q9": [3, 5], "q10": 5, "q11": 5, "q12": 5, "q13": 5, "q14": 5, "q15": 5, "load": [3, 5, 8], "direct": [2, 5], "1000d02e": 5, "referenc": 5, "100163cc": 5, "xref": 5, "press": 5, "x": 5, "idata": 5, "time": [3, 5, 6, 7], "uniqu": 5, "method": [5, 6, 7], "g": 5, "jump": [3, 5, 6], "scroll": 5, "push": [5, 6], "eax": [2, 3, 5, 6, 8], "data": [3, 5, 7, 8], "ad": [5, 6, 7], "0x0d": 5, "decim": 5, "go": [2, 3, 5, 6, 7, 8], "click": 5, "twice": 5, "undefin": 5, "place": [2, 3, 5], "redefin": 5, "offset": [3, 5, 7], "pic": 5, "praticalmalwareanalysi": 5, "24": 5, "pass": [3, 5, 6, 7, 8], "posit": 5, "valu": [3, 5, 8], "respect": 5, "ebp": 5, "neg": 5, "lpthreadparamet": 5, "100101d0": 5, "hi": 5, "master": 5, "remot": [5, 7], "shell": 5, "sound": 5, "session": 5, "1001009d": 5, "doubl": 5, "mov": [5, 8], "begin": [5, 7], "initi": [5, 8], "stack": [5, 8], "alloc": [3, 5], "space": [2, 3, 5], "Then": [2, 5, 6, 7], "structur": [3, 5], "versioninform": 5, "pointer": 5, "getversionexa": 5, "zero": [2, 3, 5], "dwplatformid": 5, "equal": [5, 8], "true": 5, "fals": 5, "al": [5, 6], "regist": [5, 7, 8], "result": [2, 5], "overal": [5, 6], "o": [5, 6], "win32nt": 5, "act": 5, "text": 5, "test": [3, 5, 8], "jnz": [5, 6], "next": [5, 6], "instruct": [5, 6, 8], "flow": [3, 5, 8], "sub_100052a2": 5, "routin": [5, 6, 8], "type": [2, 3, 5, 6], "buffer": 5, "send": [3, 5, 7], "over": [5, 8], "try": [5, 6], "registeri": 5, "softwar": [5, 6, 7], "microsoft": [5, 6], "currentvers": [5, 6], "regopenkeyexa": 5, "jz": [5, 6], "loc_10005309": 5, "10005322": 5, "queri": [5, 8], "worktim": 5, "sent": [3, 5], "vaiabl": 5, "dword_1008e5bc": 5, "sub_100036c3": 5, "cmp": [5, 6], "majorvers": 5, "jb": 5, "short": 5, "loc_100036fa": 5, "version": [5, 7], "less": 5, "than": [5, 7], "cf": 5, "goe": 5, "piec": [5, 6, 8], "str": 5, "isnot": 5, "null": 5, "empti": 5, "strlen": 5, "zf": 5, "taken": [5, 7], "non": [2, 5], "1000664c": 5, "10006518": 5, "createtoolhelp32snapshot": 5, "well": [3, 5], "heap": [3, 5], "thread": [3, 5, 7], "processentry32": [3, 5], "put": [2, 3, 5, 6, 8], "loop": [5, 6, 7, 8], "pe": 5, "szexefil": 5, "those": [5, 6], "branch": [5, 8], "seem": [3, 5], "without": [5, 7], "langaug": 5, "getsystemlanguageid": 5, "sprintf": 5, "sub_100038e": 5, "send_languageid": 5, "For": [5, 7], "win": [3, 5], "lot": 5, "10019020": 5, "cti": 5, "30": 5, "move": [5, 8], "add": 5, "convert": [5, 8], "int": 5, "multipli": 5, "1000": 5, "second": [3, 5, 6, 8], "protocol": 5, "af": 5, "q16": 5, "msdn": 5, "symbol": 5, "constant": 5, "make": [2, 3, 5, 7, 8], "more": [5, 6, 7], "meaning": 5, "appli": 5, "chang": [2, 3, 5, 7], "q17": 5, "usag": 5, "opcod": [3, 5], "0xed": 5, "magic": 5, "vmxh": 5, "perform": [5, 6], "vmware": 5, "detect": [5, 7], "evid": 5, "q18": 5, "your": [3, 5, 7], "cursor": 5, "0x1001d988": 5, "q19": 5, "have": [2, 5], "python": 5, "plug": 5, "includ": [2, 5, 8], "commerci": 5, "py": 5, "script": 5, "provid": [5, 8], "book": 5, "sure": [3, 5], "q20": 5, "With": 5, "turn": 5, "singl": [5, 6], "ascii": [5, 6, 8], "q21": 5, "editor": 5, "_target": 5, "en": 5, "win32": 5, "winsock2": 5, "nf": 5, "right": 5, "alt": 5, "b": [5, 6], "byte": [3, 5, 6], "occur": 5, "sub_10006196": 5, "hex": [5, 8], "cancel": 5, "charact": 5, "outdat": 5, "xor": [5, 8], "0x55": 5, "default": [5, 6], "format": [5, 6], "current": [5, 6], "select": 5, "screen": 5, "0x50": 5, "understand": 6, "construct": 6, "each": 6, "guid": 6, "discov": [3, 6], "build": 6, "previou": [6, 7], "thu": 6, "complic": 6, "four": 6, "onc": [2, 6, 7], "finish": [6, 7], "abl": 6, "easili": 6, "individu": 6, "encount": 6, "them": [3, 6], "lab06": 6, "major": 6, "main": [3, 6, 7, 8], "print": [6, 8], "state": 6, "output": [6, 8], "0x40105f": 6, "oper": 6, "0x40117f": 6, "ll": [6, 7], "differ": [6, 8], "between": [3, 6], "been": 6, "pars": 6, "html": [6, 7], "assum": [3, 6], "abov": 3, "stream": 6, "fail": [2, 6], "printf": 6, "here": [2, 3, 6, 7, 8], "tri": 6, "openurl": 6, "practicalmalwareanalysi": [6, 8], "v7": 6, "depend": 6, "continu": [3, 6, 7], "internetreadfil": 6, "read": [3, 6], "200": 6, "readfil": 6, "bye": 6, "0x3c": 6, "receiv": 6, "combin": [6, 7], "bunch": 6, "switch": 6, "case": 6, "user": [2, 3, 6, 7], "As": [6, 8], "summari": 6, "pma": 6, "cc": [6, 8], "htm": [3, 6], "401130": 6, "lpexistingfil": 6, "char": 6, "argv": [6, 8], "arrai": 6, "lower": 6, "401040": [6, 7], "input": [3, 6], "directori": [2, 3, 6, 7], "temp": 6, "copi": [3, 6, 7], "kei": [3, 6, 8], "persist": [3, 6, 7], "startup": [6, 7], "e": [3, 6, 8], "100": 6, "error": 6, "multipl": [3, 6], "thing": 6, "retriev": 6, "site": [6, 7], "1440": 6, "counter": 6, "var_c": 6, "parser": 6, "throughtout": 6, "dai": 6, "interv": 6, "lab07": 7, "ensur": 7, "achiev": [3, 7], "comput": [2, 7], "restart": 7, "why": [3, 7], "mutex": 7, "good": 7, "malici": [7, 8], "prior": 7, "note": 7, "becaus": [2, 7], "might": 7, "victim": [2, 7], "visibl": 7, "loopback": 7, "real": 7, "localhost": 7, "protect": [3, 7], "warn": 7, "consider": 7, "damag": 7, "difficult": 7, "remov": 7, "virtual": 7, "bit": 7, "challeng": 7, "ones": 7, "static": [3, 7, 8], "big": 7, "pictur": 7, "avoid": [7, 8], "bog": 7, "down": 7, "detail": 7, "Into": 7, "startservicectrldispatchera": 7, "manag": [7, 8], "instanc": 7, "startyp": 7, "autostart": 7, "pc": 7, "To": 7, "hardcod": 7, "must": [2, 3, 7], "consist": 7, "aren": 7, "commun": 7, "qc": 7, "malservic": 7, "hgl345": 7, "waitforsingleobject": 7, "waitabl": 7, "timer": 7, "wait": 7, "2100": 7, "834h": 7, "4010de": 7, "reach": [7, 8], "year": 7, "20": 7, "zombi": 7, "botnet": 7, "infinit": 7, "never": 7, "object": 7, "oleiniti": 7, "cocreateinst": 7, "our": [7, 8], "hkey_local_machin": 7, "class": 7, "clsid": 7, "2df01": 7, "mayb": 7, "adwar": 7, "now": [3, 7, 8], "eplor": 7, "uninti": 7, "normal": [3, 7], "ioc": 7, "system32": [2, 7, 8], "map": 7, "reflect": 7, "disk": [3, 7], "And": 7, "132": 7, "l32": 7, "4011e0": 7, "iter": 7, "string2": 7, "replac": [3, 7], "dword_403010": 7, "qmemcpi": 7, "ping": 7, "pong": 7, "reciev": 7, "overwrit": [3, 7], "instead": 7, "sadfhuhf": 7, "inject": 7, "logic": [2, 7], "Or": 7, "easier": [7, 8], "lab09": 8, "ollydbg": [3, 8], "follow": 8, "option": 8, "password": 8, "perman": 8, "patch": 8, "doesn": [3, 8], "special": 8, "action": 8, "via": 8, "sampl": 8, "payload": 8, "0x00401133": 8, "being": [3, 8], "0x00401089": 8, "encod": 8, "signific": [3, 8], "createprocessa": 8, "0x0040106e": 8, "dll1": 8, "dll2": 8, "dll3": 8, "built": 8, "therefor": 8, "versu": 8, "appear": 8, "comfort": 8, "correct": 8, "within": 8, "debug": [3, 8], "assign": 8, "writefil": 8, "filenam": [3, 8], "write": [3, 8], "job": 8, "netschedulejobadd": 8, "mysteri": 8, "sub_402410": 8, "del": 8, "respons": [3, 8], "last": 8, "argc": 8, "abcd": 8, "passkei": 8, "n": 8, "r": 8, "involv": 8, "around": 8, "re": 8, "opposit": 8, "suppli": 8, "xp": 8, "subkei": 8, "arugu": 8, "qw": 8, "402af0": 8, "step": 8, "till": 8, "sinc": 8, "skip": 8, "selfdelet": 8, "arriv": 8, "prepar": 8, "servicemanag": 8, "dir": 8, "syswow": 8, "systemroot": 8, "windowssystem32": [2, 8], "hklmsoftwaremicrosoft": 8, "noth": 8, "foreground": 8, "someth": 8, "ocl": 8, "termin": 8, "bp": [3, 8], "401133": 8, "breakpoint": [2, 8], "gonna": 8, "decod": [3, 8], "46": 8, "letter": 8, "dump": 8, "anywher": 2, "properli": [2, 3], "origin": 2, "lab10": 2, "sy": 2, "controlservic": 2, "windbg": 2, "kernel": 2, "compon": 2, "stop": 2, "regsetvalu": 2, "0x01": 2, "service_kernel_driv": 2, "0x00000001": 2, "couldnt": 2, "dwcontrol": 2, "service_control_stop": 2, "still": 2, "hit": 2, "break": 2, "lab11": 3, "drop": 3, "rep": 3, "stosd": 3, "ecx": 3, "43h": 3, "tgad": 3, "pestudio": 3, "loadresourc": 3, "40100": 3, "gina": 3, "intercept": 3, "regset": 3, "ginadl": 3, "winlogon": 3, "steal": 3, "credenti": 3, "exeinfo": 3, "floss": 3, "oringin": 3, "stolen": 3, "msutil": 3, "ini": 3, "attempt": 3, "permiss": 3, "resid": 3, "rootkit": 3, "emploi": 3, "hook": 3, "attack": 3, "captur": 3, "activ": 3, "dure": 3, "interest": 3, "lead": 3, "system": 3, "store": 3, "collect": 3, "similar": 3, "caller": 3, "appleinit": 3, "stood": 3, "modulefilenam": 3, "processid": 3, "plu": 3, "snapshottool": 3, "100012fe": 3, "wsock32": 3, "got": 3, "10001203": 3, "virtualprotect": 3, "inlin": 3, "insid": 3, "calcul": 3, "distanc": 3, "arg_4": 3, "sendaddr": 3, "0xff": 3, "lpaddress": 3, "rel": 3, "rest": 3, "0xe9": 3, "jmp": 3, "v6": 3, "trace": 3, "back": 3, "1000113d": 3, "substr": 3, "rept": 3, "els": 3, "recepi": 3, "email": 3, "100034a0": [], "destin": 3, "gibberish": 3, "100010b3": 3, "de": 3, "loaddll": 3, "outlook": 3, "mark": 3, "keylogg": 3, "record": 3, "save": 3, "manipul": 3}, "objects": {}, "objtypes": {}, "objnames": {}, "titleterms": {"welcom": 0, "abdelrahmn": 0, "walkthrough": 0, "": [], "document": [], "indic": 0, "tabl": 0, "practic": [1, 2, 3, 4, 5, 6, 7, 8], "malwar": [1, 2, 3, 4, 5, 6, 7, 8], "analysi": [1, 2, 3, 4, 5, 6, 7, 8], "lab": [1, 2, 3, 4, 5, 6, 7, 8], "1": [1, 2, 3, 4, 5, 6, 7, 8], "2": [1, 2, 3, 4, 6, 7, 8], "3": [1, 2, 3, 4, 6, 7, 8], "4": [1, 4, 6], "5": 5, "6": 6, "7": 7, "9": 8, "10": 2, "11": 3}, "envversion": {"sphinx.domains.c": 2, "sphinx.domains.changeset": 1, "sphinx.domains.citation": 1, "sphinx.domains.cpp": 8, "sphinx.domains.index": 1, "sphinx.domains.javascript": 2, "sphinx.domains.math": 2, "sphinx.domains.python": 3, "sphinx.domains.rst": 2, "sphinx.domains.std": 2, "sphinx": 57}, "alltitles": {"Practical Malware Analysis - Lab 1": [[1, "practical-malware-analysis-lab-1"]], "Lab 1-1": [[1, "lab-1-1"]], "Lab 1-2": [[1, "lab-1-2"]], "Lab 1-3": [[1, "lab-1-3"]], "Lab 1-4": [[1, "lab-1-4"]], "Practical Malware Analysis - Lab 3": [[4, "practical-malware-analysis-lab-3"]], "Lab 3-1": [[4, "lab-3-1"]], "Lab 3-2": [[4, "lab-3-2"]], "Lab 3-3": [[4, "lab-3-3"]], "Lab 3-4": [[4, "lab-3-4"]], "Practical Malware Analysis - Lab 5": [[5, "practical-malware-analysis-lab-5"]], "Lab 5-1": [[5, "lab-5-1"]], "Practical Malware Analysis - Lab 6": [[6, "practical-malware-analysis-lab-6"]], "Lab 6-1": [[6, "lab-6-1"]], "Lab 6-2": [[6, "lab-6-2"]], "Lab 6-3": [[6, "lab-6-3"]], "Lab 6-4": [[6, "lab-6-4"]], "Practical Malware Analysis - Lab 7": [[7, "practical-malware-analysis-lab-7"]], "Lab 7-1": [[7, "lab-7-1"]], "Lab 7-2": [[7, "lab-7-2"]], "Lab 7-3": [[7, "lab-7-3"]], "Practical Malware Analysis - Lab 9": [[8, "practical-malware-analysis-lab-9"]], "Lab 9-1": [[8, "lab-9-1"]], "Lab 9-2": [[8, "lab-9-2"]], "Lab 9-3": [[8, "lab-9-3"]], "Welcome to abdelrahmn walkthrough!": [[0, "welcome-to-abdelrahmn-walkthrough"]], "Indices and tables": [[0, "indices-and-tables"]], "Practical Malware Analysis - Lab 10": [[2, "practical-malware-analysis-lab-10"]], "Lab 10-1": [[2, "lab-10-1"]], "Lab 10-2": [[2, "lab-10-2"]], "Lab 10-3": [[2, "lab-10-3"]], "Practical Malware Analysis - Lab 11": [[3, "practical-malware-analysis-lab-11"]], "Lab 11-1": [[3, "lab-11-1"]], "Lab 11-2": [[3, "lab-11-2"]], "Lab 11-3": [[3, "lab-11-3"]]}, "indexentries": {}})

diff --git a/lab11/lab11.html b/lab11/lab11.html
@@ -165,17 +165,29 @@ else continue the flow</p>
 <img alt="../_images/2q19.png" src="../_images/2q19.png" />
 <p>we need to debug the file to see the data but likely here it changes the recepient like a way to intercept data being sent in the email</p>
 <img alt="../_images/2q20.png" src="../_images/2q20.png" />
-<p>and we notice it used 100034A0 which was used for modulefilename to the ini file</p>
+<p>and we notice it used destination which was used for the ini file</p>
 <img alt="../_images/2q18.png" src="../_images/2q18.png" />
 <p><strong>Q7: Which process(es) does this malware attack and why?</strong></p>
+<p>answered above email processes</p>
 <p><strong>Q8: What is the significance of the .ini file?</strong></p>
+<p>as ini file contains gibberish data and at the start of dllmain it read the file then passes it to function 100010B3 we bp that function at ollydbg</p>
+<img alt="../_images/2q211.png" src="../_images/2q211.png" />
+<p>bp at this (<a class="reference external" href="https://www.ollydbg.de/Loaddll.htm">https://www.ollydbg.de/Loaddll.htm</a>)</p>
+<img alt="../_images/2q23.png" src="../_images/2q23.png" />
+<p>which contains the decoded email recepient</p>
+<img alt="../_images/2q25.png" src="../_images/2q25.png" />
 <p><strong>Q9: How can you dynamically capture this malware’s activity with Wireshark?</strong></p>
+<p>by sending email with outlook</p>
 </section>
 <section id="lab-11-3">
 <h2>Lab 11-3<a class="headerlink" href="#lab-11-3" title="Permalink to this heading"></a></h2>
 <p>Analyze the malware found in Lab11-03.exe and Lab11-03.dll. Make sure that
 both files are in the same directory during analysis.</p>
 <p><strong>Q1: What interesting analysis leads can you discover using basic static analysis?</strong></p>
+<p>running strings we see the marked functions which are used to keylogger, and create file function which may record keys then save to a file</p>
+<img alt="../_images/3q1.png" src="../_images/3q1.png" />
+<p>we also functions responsible for manipulating memory</p>
+<img alt="../_images/3q2.png" src="../_images/3q2.png" />
 <p><strong>Q2: What happens when you run this malware?</strong></p>
 <p><strong>Q3: How does Lab11-03.exe persistently install Lab11-03.dll?</strong></p>
 <p><strong>Q4: Which Windows system file does the malware infect?</strong></p>
